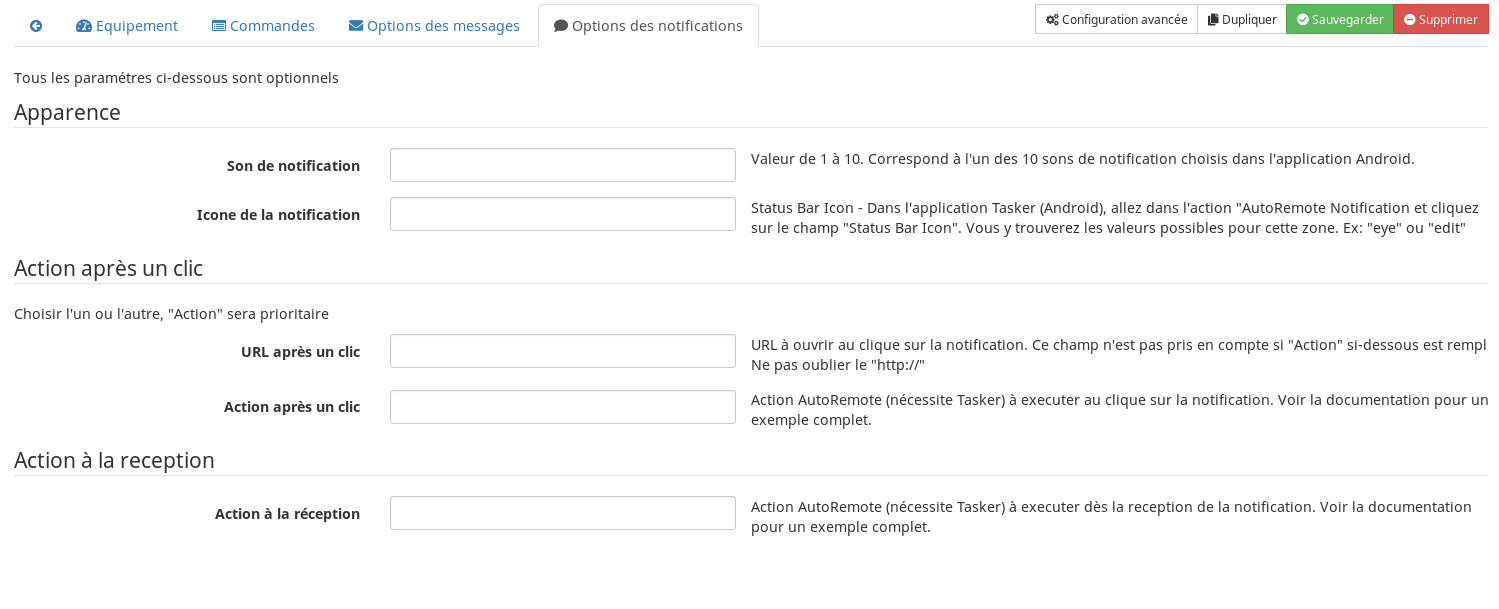
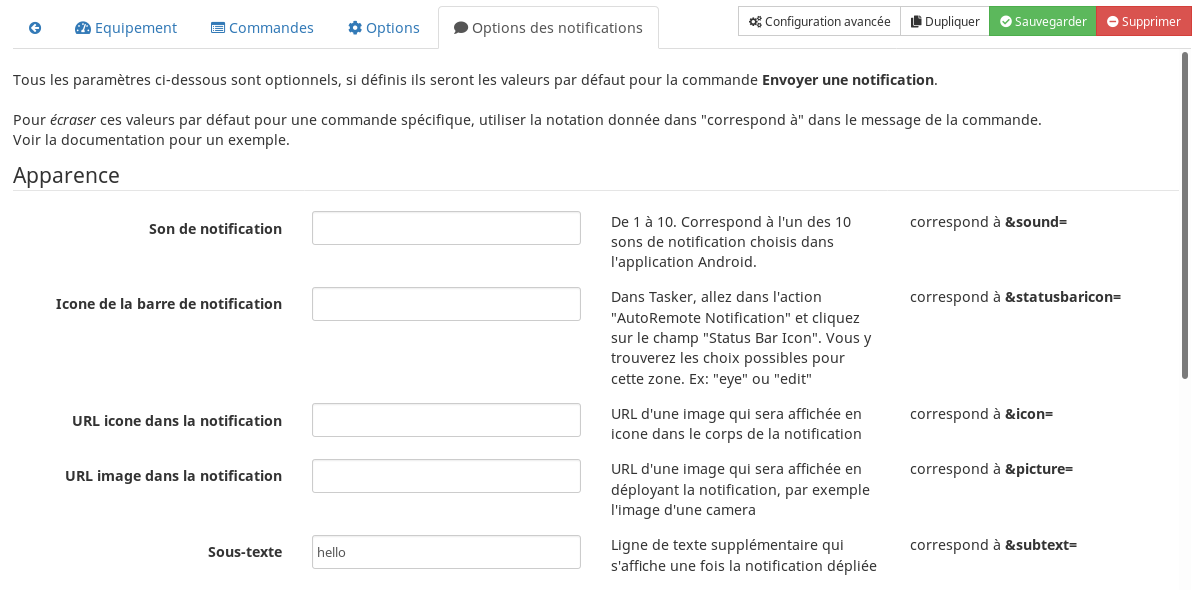
relecture texte affiché et printscreen pour la doc

diff --git a/desktop/php/TaskerAutoRemote.php b/desktop/php/TaskerAutoRemote.php
@@ -152,76 +152,76 @@ $eqLogics = eqLogic::byType($plugin->getId());
 
       <div role="tabpanel" class="tab-pane" id="msgoptiontab">
         </br>
-        <p>{{Tous les paramètres ci-dessous sont optionnels, si définis ils seront les valeurs par défaut pour <strong>Envoyer un message</strong> et <strong>Envoyer une notification</strong>. </br></br> Pour <em>écraser</em> ces valeurs par défaut pour une commande spécifique, utiliser la notation donnée dans "Ce champ correspond à" dans le message de la commande. <br>
+        <p>{{Tous les paramètres ci-dessous sont optionnels, si définis ils seront les valeurs par défaut pour <strong>Envoyer un message</strong> et <strong>Envoyer une notification</strong>. </br></br> Pour <em>écraser</em> ces valeurs par défaut pour une commande spécifique, utiliser la notation donnée dans "correspond à" dans le message de la commande. <br>
         Voir la documentation pour un exemple.}}</p>
         <form class="form-horizontal">
-          <legend>Options</legend>
+          <legend>{{Options}}</legend>
           <div class="form-group">
             <label class="col-sm-3 control-label">{{Cible (messages seulement)}}</label>
             <div class="col-sm-3">
               <input type="text" class="eqLogicAttr form-control" data-l1key="configuration" data-l2key="target" />
             </div>
-            <div class="col-sm-3">{{Permet au receveur de filtrer les messages selon la cible sans avoir besoin d'analyser le message en lui-même. Ce champ ne défini pas le destinataire du message (défini par l'API key)}}</div>
-            <div class="col-sm-3">{{Ce champ correspond à <strong>&target=</strong>}}</div>
+            <div class="col-sm-3">{{Pour filtrer les messages sans devoir analyser le message en lui-même. Ne définit pas le destinataire du message (défini par l'API key)}}</div>
+            <div class="col-sm-3">{{correspond à <strong>&target=</strong>}}</div>
           </div>
           <div class="form-group">
             <label class="col-sm-3 control-label">{{Emetteur}}</label>
             <div class="col-sm-3">
               <input type="text" class="eqLogicAttr form-control" data-l1key="configuration" data-l2key="sender" />
             </div>
-            <div class="col-sm-3">{{Permet de déclarer l'origine du message}}</div>
-            <div class="col-sm-3">{{Ce champ correspond à <strong>&sender=</strong>}}</div>
+            <div class="col-sm-3">{{Pour déclarer l'origine du message}}</div>
+            <div class="col-sm-3">{{correspond à <strong>&sender=</strong>}}</div>
           </div>
           <div class="form-group">
             <label class="col-sm-3 control-label">{{Mot de passe}}</label>
             <div class="col-sm-3">
               <input type="text" class="eqLogicAttr form-control" data-l1key="configuration" data-l2key="password" />
             </div>
-            <div class="col-sm-3">{{Permet d'utiliser le mot de passe définis dans l'appli android. Attention, il est envoyé en clair dans la requête http et visible dans les logs.}}</div>
-            <div class="col-sm-3">{{Ce champ correspond à <strong>&password=</strong>}}</div>
+            <div class="col-sm-3">{{Correspond au mot de passe de l'appli android. Attention, il est envoyé en clair dans la requête http et visible dans les logs.}}</div>
+            <div class="col-sm-3">{{correspond à <strong>&password=</strong>}}</div>
           </div>
           <div class="form-group">
             <label class="col-sm-3 control-label">{{Durée de validité (en s)}}</label>
             <div class="col-sm-3">
               <input type="text" class="eqLogicAttr form-control" data-l1key="configuration" data-l2key="ttl" />
             </div>
-            <div class="col-sm-3">{{Durée en secondes avant que le message soit considéré obsolète. Au bout de cette durée, si le message n'a pas été remis il est abandonné. Par défaut : 0 = illimité}}</div>
-            <div class="col-sm-3">{{Ce champ correspond à <strong>&ttl=</strong>}}</div>
+            <div class="col-sm-3">{{Durée en secondes avant que le message soit considéré obsolète. Si non remis après ce délai, il est abandonné. Par défaut : 0 = illimité}}</div>
+            <div class="col-sm-3">{{correspond à <strong>&ttl=</strong>}}</div>
           </div>
           <div class="form-group">
             <label class="col-sm-3 control-label">{{Groupe de message}}</label>
             <div class="col-sm-3">
               <input type="text" class="eqLogicAttr form-control" data-l1key="configuration" data-l2key="collapseKey" />
             </div>
-            <div class="col-sm-3">{{Si le destinataire n'est pas joignable pendant une certaine durée, seul le dernier message appartenant à ce "groupe" sera transmis à la reconnexion du destinataire.}}</div>
-            <div class="col-sm-3">{{Ce champ correspond à <strong>&collapseKey=</strong>}}</div>
+            <div class="col-sm-3">{{Si le destinataire n'est pas joignable, seul le dernier message appartenant à ce "groupe" sera transmis à la reconnexion.}}</div>
+            <div class="col-sm-3">{{correspond à <strong>&collapseKey=</strong>}}</div>
           </div>
         </form>
       </div>
 
       <div role="tabpanel" class="tab-pane" id="notifoptiontab">
         </br>
-        <p>{{Tous les paramètres ci-dessous sont optionnels, si définis ils seront les valeurs par défaut pour la commande <strong>Envoyer une notification</strong>. </br></br> Pour <em>écraser</em> ces valeurs par défaut pour une commande spécifique, utiliser la notation donnée dans "Ce champ correspond à" dans le message de la commande. <br> Voir la documentation pour un exemple.}}</p>
+        <p>{{Tous les paramètres ci-dessous sont optionnels, si définis ils seront les valeurs par défaut pour la commande <strong>Envoyer une notification</strong>. </br></br> Pour <em>écraser</em> ces valeurs par défaut pour une commande spécifique, utiliser la notation donnée dans "correspond à" dans le message de la commande. <br> Voir la documentation pour un exemple.}}</p>
 
         <form class="form-horizontal">
 
-          <legend>Apparence</legend>
+          <legend>{{Apparence}}</legend>
           <div class="form-group">
             <label class="col-sm-3 control-label">{{Son de notification}}</label>
             <div class="col-sm-3">
               <input type="text" class="eqLogicAttr form-control" data-l1key="configuration" data-l2key="sound" />
             </div>
-            <div class="col-sm-3">{{Valeur de 1 à 10. Correspond à l'un des 10 sons de notification choisis dans l'application Android.}}
+            <div class="col-sm-3">{{De 1 à 10. Correspond à l'un des 10 sons de notification choisis dans l'application Android.}}
             </div>
-            <div class="col-sm-3">{{Ce champ correspond à <strong>&sound=</strong>}}</div>
+            <div class="col-sm-3">{{correspond à <strong>&sound=</strong>}}</div>
           </div>
           <div class="form-group">
             <label class="col-sm-3 control-label">{{Icone de la barre de notification}}</label>
             <div class="col-sm-3">
               <input type="text" class="eqLogicAttr form-control" data-l1key="configuration" data-l2key="status_bar_icon" />
             </div>
-            <div class="col-sm-3">{{Dans Tasker, allez dans l'action "AutoRemote Notification" et cliquez sur le champ "Status Bar Icon". Vous y trouverez les valeurs possibles pour cette zone. Ex: "eye" ou "edit"}}</div>
-            <div class="col-sm-3">{{Ce champ correspond à <strong>&statusbaricon=</strong>}}</div>
+            <div class="col-sm-3">{{Dans Tasker, allez dans l'action "AutoRemote Notification" et cliquez sur le champ "Status Bar Icon". Vous y trouverez les choix possibles pour cette zone. Ex: "eye" ou "edit"}}</div>
+            <div class="col-sm-3">{{correspond à <strong>&statusbaricon=</strong>}}</div>
           </div>
           <div class="form-group">
             <label class="col-sm-3 control-label">{{URL icone dans la notification}}</label>
@@ -229,7 +229,7 @@ $eqLogics = eqLogic::byType($plugin->getId());
               <input type="text" class="eqLogicAttr form-control" data-l1key="configuration" data-l2key="icon" />
             </div>
             <div class="col-sm-3">{{URL d'une image qui sera affichée en icone dans le corps de la notification}}</div>
-            <div class="col-sm-3">{{Ce champ correspond à <strong>&icon=</strong>}}</div>
+            <div class="col-sm-3">{{correspond à <strong>&icon=</strong>}}</div>
           </div>
           <div class="form-group">
             <label class="col-sm-3 control-label">{{URL image dans la notification}}</label>
@@ -237,26 +237,26 @@ $eqLogics = eqLogic::byType($plugin->getId());
               <input type="text" class="eqLogicAttr form-control" data-l1key="configuration" data-l2key="picture" />
             </div>
             <div class="col-sm-3">{{URL d'une image qui sera affichée en déployant la notification, par exemple l'image d'une camera}}</div>
-            <div class="col-sm-3">{{Ce champ correspond à <strong>&picture=</strong>}}</div>
+            <div class="col-sm-3">{{correspond à <strong>&picture=</strong>}}</div>
           </div>
           <div class="form-group">
             <label class="col-sm-3 control-label">{{Sous-texte}}</label>
             <div class="col-sm-3">
               <input type="text" class="eqLogicAttr form-control" data-l1key="configuration" data-l2key="subtext" />
             </div>
-            <div class="col-sm-3">{{Ligne de texte supplémentaire qui s'affiche dans le titre une fois la notification dépliée}}
+            <div class="col-sm-3">{{Ligne de texte supplémentaire qui s'affiche une fois la notification dépliée}}
             </div>
-            <div class="col-sm-3">{{Ce champ correspond à <strong>&subtext=</strong>}}</div>
+            <div class="col-sm-3">{{correspond à <strong>&subtext=</strong>}}</div>
           </div>
 
-          <legend>Actions</legend>
+          <legend>{{Actions}}</legend>
           <div class="form-group">
             <label class="col-sm-3 control-label">{{URL au clic}}</label>
             <div class="col-sm-3">
               <input type="text" class="eqLogicAttr form-control" data-l1key="configuration" data-l2key="url_on_tap" />
             </div>
             <div class="col-sm-3">{{URL à ouvrir au clique sur la notification. Ce champ n'est pas pris en compte si "Action au clic" si-dessous est rempli. Ne pas oublier le "http://"}}</div>
-            <div class="col-sm-3">{{Ce champ correspond à <strong>&url=</strong>}}</div>
+            <div class="col-sm-3">{{correspond à <strong>&url=</strong>}}</div>
           </div>
           <div class="form-group">
             <label class="col-sm-3 control-label">{{Action au clic}}</label>
@@ -264,7 +264,7 @@ $eqLogics = eqLogic::byType($plugin->getId());
               <input type="text" class="eqLogicAttr form-control" data-l1key="configuration" data-l2key="action_on_tap" />
             </div>
             <div class="col-sm-3">{{Action AutoRemote (nécessite Tasker) à executer au clique sur la notification. Voir la documentation pour un exemple.}}</div>
-            <div class="col-sm-3">{{Ce champ correspond à <strong>&action=</strong>}}</div>
+            <div class="col-sm-3">{{correspond à <strong>&action=</strong>}}</div>
           </div>
           <div class="form-group">
             <label class="col-sm-3 control-label">{{Action à la réception}}</label>
@@ -272,7 +272,7 @@ $eqLogics = eqLogic::byType($plugin->getId());
               <input type="text" class="eqLogicAttr form-control" data-l1key="configuration" data-l2key="action_on_receive" />
             </div>
             <div class="col-sm-3">{{Action AutoRemote (nécessite Tasker) à executer dès la reception de la notification.}}</div>
-            <div class="col-sm-3">{{Ce champ correspond à <strong>&message=</strong>}}</div>
+            <div class="col-sm-3">{{correspond à <strong>&message=</strong>}}</div>
           </div>
           <div class="form-group">
             <label class="col-sm-3 control-label">{{Action à la suppression}}</label>
@@ -280,18 +280,18 @@ $eqLogics = eqLogic::byType($plugin->getId());
               <input type="text" class="eqLogicAttr form-control" data-l1key="configuration" data-l2key="action_on_dismiss" />
             </div>
             <div class="col-sm-3">{{Action AutoRemote (nécessite Tasker) à executer lors de la suppression de la notification.}}</div>
-            <div class="col-sm-3">{{Ce champ correspond à <strong>&actionondismiss=</strong>}}</div>
+            <div class="col-sm-3">{{correspond à <strong>&actionondismiss=</strong>}}</div>
           </div>
 
-          <legend>Boutons actions</legend>
+          <legend>{{Boutons actions}}</legend>
           <p>Bouton N°1 :</p>
           <div class="form-group">
             <label class="col-sm-3 control-label">{{Nom du bouton}}</label>
             <div class="col-sm-3">
               <input type="text" class="eqLogicAttr form-control" data-l1key="configuration" data-l2key="action1name" />
             </div>
-            <div class="col-sm-3">{{Action AutoRemote (nécessite Tasker) à executer au clique sur la notification. Voir la documentation pour un exemple.}}</div>
-            <div class="col-sm-3">{{Ce champ correspond à <strong>&action1name=</strong>}}</div>
+            <div class="col-sm-3">{{Label du bouton}}</div>
+            <div class="col-sm-3">{{correspond à <strong>&action1name=</strong>}}</div>
           </div>
           <div class="form-group">
             <label class="col-sm-3 control-label">{{Action associée}}</label>
@@ -299,7 +299,7 @@ $eqLogics = eqLogic::byType($plugin->getId());
               <input type="text" class="eqLogicAttr form-control" data-l1key="configuration" data-l2key="action1" />
             </div>
             <div class="col-sm-3">{{Action AutoRemote (nécessite Tasker) à executer au clique sur ce bouton."}}</div>
-            <div class="col-sm-3">{{Ce champ correspond à <strong>&action1=</strong>}}</div>
+            <div class="col-sm-3">{{correspond à <strong>&action1=</strong>}}</div>
           </div>
           <p>Bouton N°2 :</p>
           <div class="form-group">
@@ -308,7 +308,7 @@ $eqLogics = eqLogic::byType($plugin->getId());
               <input type="text" class="eqLogicAttr form-control" data-l1key="configuration" data-l2key="action2name" />
             </div>
             <div class="col-sm-3">{{}}</div>
-            <div class="col-sm-3">{{Ce champ correspond à <strong>&action2name=</strong>}}</div>
+            <div class="col-sm-3">{{correspond à <strong>&action2name=</strong>}}</div>
           </div>
           <div class="form-group">
             <label class="col-sm-3 control-label">{{Action associée}}</label>
@@ -316,7 +316,7 @@ $eqLogics = eqLogic::byType($plugin->getId());
               <input type="text" class="eqLogicAttr form-control" data-l1key="configuration" data-l2key="action2" />
             </div>
             <div class="col-sm-3">{{}}</div>
-            <div class="col-sm-3">{{Ce champ correspond à <strong>&action2=</strong>}}</div>
+            <div class="col-sm-3">{{correspond à <strong>&action2=</strong>}}</div>
           </div>
           <p>Bouton N°3 :</p>
           <div class="form-group">
@@ -325,7 +325,7 @@ $eqLogics = eqLogic::byType($plugin->getId());
               <input type="text" class="eqLogicAttr form-control" data-l1key="configuration" data-l2key="action3name" />
             </div>
             <div class="col-sm-3">{{}}</div>
-            <div class="col-sm-3">{{Ce champ correspond à <strong>&action3name=</strong>}}</div>
+            <div class="col-sm-3">{{correspond à <strong>&action3name=</strong>}}</div>
           </div>
           <div class="form-group">
             <label class="col-sm-3 control-label">{{Action associée}}</label>
@@ -333,30 +333,30 @@ $eqLogics = eqLogic::byType($plugin->getId());
               <input type="text" class="eqLogicAttr form-control" data-l1key="configuration" data-l2key="action3" />
             </div>
             <div class="col-sm-3">{{}}</div>
-            <div class="col-sm-3">{{Ce champ correspond à <strong>&action3=</strong>}}</div>
+            <div class="col-sm-3">{{correspond à <strong>&action3=</strong>}}</div>
           </div>
 
-          <legend>Configuration</legend>
+          <legend>{{Configuration}}</legend>
           <div class="form-group">
             <label class="col-sm-3 control-label">{{Priorité}}</label>
             <div class="col-sm-3">
               <input type="text" class="eqLogicAttr form-control" data-l1key="configuration" data-l2key="priority" />
             </div>
-            <div class="col-sm-3">{{Values ranging from -2 (min priority) to 2 (max priority)}}
+            <div class="col-sm-3">{{de -2 (priorité moindre) à 2 (max)}}
             </div>
-            <div class="col-sm-3">{{Ce champ correspond à <strong>&priority=</strong>}}</div>
+            <div class="col-sm-3">{{correspond à <strong>&priority=</strong>}}</div>
           </div>
           <div class="form-group">
             <label class="col-sm-3 control-label">{{ID de la notification}}</label>
             <div class="col-sm-3">
               <input type="text" class="eqLogicAttr form-control" data-l1key="configuration" data-l2key="notif_id" />
             </div>
-            <div class="col-sm-3">{{Notifications with different ids will not overlap eachother}}
+            <div class="col-sm-3">{{Utiliser le même id permet de regrouper les notifications}}
             </div>
-            <div class="col-sm-3">{{Ce champ correspond à <strong>&id=</strong>}}</div>
+            <div class="col-sm-3">{{correspond à <strong>&id=</strong>}}</div>
           </div>
 
-          <legend>Autres</legend>
+          <legend>{{Autres}}</legend>
           <div class="form-group">
             <label class="col-sm-3 control-label">{{Autres paramètres par défaut}}</label>
             <div class="col-sm-3">
